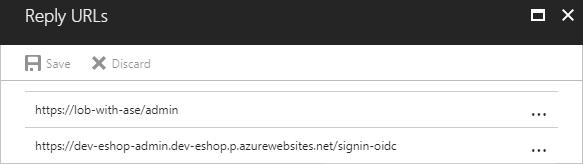
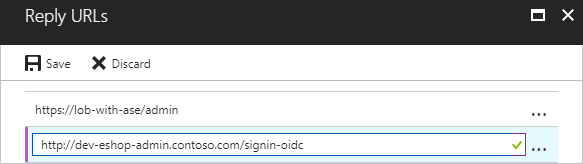
Check in new changes

Changed region(s): [[0.0309, 0.7622, 0.9571, 1.0], [0.1544, 0.3354, 0.2779, 0.4268], [0.0309, 0.3354, 0.1235, 0.4268]]

diff --git a/e-shop-website-with-ilb-ase/README.md b/e-shop-website-with-ilb-ase/README.md
@@ -2,21 +2,31 @@
 
 **Table of content**
 
-[Create App Registrations in Azure Active Directory (AAD)](#create-app-registrations-in-azure-active-directory-aad)
+[Architecture](#architecture)
 
-* [Get Tenant Id](#get-tenant-id)
-* [Create App Registration for the Admin Web App](#create-app-registration-for-the-admin-web-app)
+[Prerequisites](#prerequisites)
 
-[Deploy Azure Components with the ARM Template](#deploy-azure-components-with-the-arm-template)
+[Deploy Azure Resources with ARM Templates](#deploy-azure-resources-with-arm-templates)
 
-* [GitHub Authorize](#github-authorize)
-* [Deploy Azure Components](#deploy-azure-components)
-* [Deployment output](#deployment-output)
+* [Create a new App Service Environment](#create-a-new-app-service-environment)
+* [Create App Registration in Azure Active Directory (AAD)](#create-app-registration-in-azure-active-directory-aad)
+* [Deploy the Other Azure Resources](#deploy-the-other-azure-resources)
+
+[Follow-up Steps](#follow-up-steps)
+
+* [Check Deployment Outputs](#check-deployment-outputs)
+* [Get ASE ILB IP address](#get-ase-ilb-ip-address)
+
+
+* [Add DNS Records](#add-dns-records)
 
 
 * [Add Reply URL to the Admin Web App](#add-reply-url-to-the-admin-web-app)
 
 [Access Deployed Resources](#access-deployed-resources)
+
+* [Web App](#web-app)
+* [Admin App](#admin-app)
 
 ## Architecture
 
@@ -24,9 +34,65 @@
 
 Download the Visio diagram [here](/e-shop-website-with-ilb-ase/architecture.vsdx).
 
-## Create App Registrations in Azure Active Directory (AAD) 
+## Prerequisites
 
-### Get Tenant Id
+To experience this sample, you should prepare two domain names:
+
+1. Internal domain name: used by the App Service Environment. For example `contoso-internal.com`.
+2. External domain name: used to internet access Web Apps. For example `contoso.com`.
+
+And you should have the permissions to configure them. We will add several A records and CNAME records later.
+
+> Note: You may get free domain names on [freenom](https://www.freenom.com).
+
+## Deploy Azure Resources with ARM Templates
+
+### Create a new App Service Environment
+
+It takes about 70 minutes to create a new App Service Environment in Azure. 
+
+1. Click the **Deploy to Azure** Button:
+
+   <a href="https://portal.azure.com/#create/Microsoft.Template/uri/https%3A%2F%2Fraw.githubusercontent.com%2FAzure%2Fazure-quickstart-templates%2Fmaster%2Fe-shop-website-with-ilb-ase%2Fprereqs%2Fprereq.azuredeploy.json" target="_blank">
+     <img src="http://azuredeploy.net/deploybutton.png"/>
+   </a>
+
+2. Fill in the values on the custom deployment page:
+
+   **Basics**:
+
+   - **Subscription**: choose one of your subscriptions
+   - **Resource group**: create a new resource group
+   - **Location**:  select a location
+
+   **Settings**:
+
+   - **Name**: the name of the App Service Environment. 
+
+     > **Note:** 
+     >
+     > * This value is also used to name other Azure resources created by the ARM template. To avoid naming conflicts, please choose a unique name, for example **tyler-eshop-180308**.
+     > * This value is also used as the subdomain name. Please only use lowercase characters, numbers, and dash(-).
+
+   - **Location**: choose the same location as the location of the resource group.
+
+     > **Note:** This parameter was added because of this [issue](https://github.com/Azure/azure-quickstart-templates/issues/2828).
+
+   - **DNS Suffix**:  input the internal domain name, for example `contoso-internal.com` 
+
+   **Terms and conditions**:
+
+   - Check **I agree to the terms and conditions stated above**.
+
+   > **Note**: keeps these values. The will be used to deploy the other resources later.
+
+3. Click **Purchase**.
+
+   > **Note**: During the deployment, you may work on next section.
+
+### Create App Registration in Azure Active Directory (AAD) 
+
+#### Get Tenant Id
 
 Open the AAD in the Azure portal, and copy get the **Directory ID**.
 
@@ -34,7 +100,7 @@ Open the AAD in the Azure portal, and copy get the **Directory ID**.
 
 The **Directory ID** is used to set the value of the **Azure Ad Tenant Id** parameter in the ARM Template.
 
-### Create App Registration for the Admin Web App
+#### Create App Registration for the Admin Web App
 
 Create a new App Registration in AAD:
 
@@ -52,52 +118,9 @@ Create a new App Registration in AAD:
 
 Copy the **Application Id** and save it in a text file. You will need it later to specify the values for the **Azure Ad Client Id** parameter in the ARM Template.
 
-## Deploy Azure Components with the ARM Template
+### Deploy the Other Azure Resources
 
-### GitHub Authorize
-
-1. Generate Token
-
-   - Open [https://github.com/settings/tokens](https://github.com/settings/tokens) in your web browser.
-
-   - Sign into your GitHub account where you forked this repository.
-
-   - Click **Generate Token**.
-
-   - Enter a value in the **Token description** text box.
-
-   - Select the followings (your selections should match the screenshot below):
-
-     - repo (all) -> repo:status, repo_deployment, public_repo
-     - admin:repo_hook -> read:repo_hook
-
-     ![](images/github-new-personal-access-token.png)
-
-   - Click **Generate token**.
-
-   - Copy the token and save it in a text file.
-
-2. Add the GitHub Token to Azure in the Azure Resource Explorer
-
-   - Open [https://resources.azure.com/providers/Microsoft.Web/sourcecontrols/GitHub](https://resources.azure.com/providers/Microsoft.Web/sourcecontrols/GitHub) in your web browser.
-
-   - Log in with your Azure account.
-
-   - Select the correct Azure subscription.
-
-   - Select **Read/Write** mode.
-
-   - Click **Edit**.
-
-   - Paste the token into the **token parameter**.
-
-     ![](images/update-github-token-in-azure-resource-explorer.png)
-
-   - Click **PUT**.
-
-### Deploy Azure Components
-
-1. Fork this repository to your GitHub account.
+After the App Service Environment deployed, follow the steps below to deploy the other Azure resources.
 
 2. Click the **Deploy to Azure** Button:
 
@@ -109,44 +132,37 @@ Copy the **Application Id** and save it in a text file. You will need it later t
      <img src="http://armviz.io/visualizebutton.png"/>
    </a>
 
-3. Fill in the values on the deployment page:
+2. Fill in the values on the deployment page:
 
    **Basics**:
 
-   * **Subscription**: choose one of your subscriptions
-   * **Resource group**: create a new resource group
-   * **Location**:  select a location
+   * **Subscription**: choose the same subscription.
+   * **Resource group**: choose the same resource group.
 
    **Settings**:
 
-   * **Ase Name**: the name of the App Service Environment. 
+   * **Existing ASE Name**: the name of the App Service Environment.
 
-     >**Note:** This value is also used to name other Azure resources created by the ARM template. To avoid naming conflicts, please choose a unique name, for example: **tyler-eshop-180308**.
+   * **Existing ASE Location**: the location of the App Service Environment.
 
-   * **Ase Location**: choose the same location as the location of the resource group.
+   * **Existing ASE DNS Suffix**: the DNS Suffix (the internal domain name) of the App Service Environment. 
 
-     >**Note:** This parameter was added because of this [issue](https://github.com/Azure/azure-quickstart-templates/issues/2828).
+   * **DNS Suffix**: the external domain name. For example `contoso.com`
 
-   * **Sql Server Administrator Login**:  please keep the default value.
+   * **SQL Server Administrator Login**:  please keep the default value.
 
      >**Note:** If you want to change it, please make sure your login name meets the following requirements - It's a SQL Identifier, and not a typical system name (like admin, administrator, sa, root, dbmanager, loginmanager, etc.), or a built-in database user or role (like dbo, guest, public, etc.). Make sure your name doesn't contain whitespaces, unicode characters, or nonalphabetic characters, and that it doesn't begin with numbers or symbols.
 
-   * **Sql Server Administrator Login Password**: please do use a strong password.
+   * **SQL Server Administrator Login Password**: please do use a strong password.
 
      >**Note:**
      >
      > - Your password must be at least 8 characters in length.
      > - Your password must contain characters from three of the following categories – English uppercase letters, English lowercase letters, numbers (0-9), and non-alphanumeric characters (!, $, #, %, etc.)
 
-   * **Azure Ad Tenant Id**/**Client Id**: use the values you got from the previous chapter.
+   * **Azure AD Tenant Id**/**Client Id**: use the values you got from the previous chapter.
 
      > Note: These values are used to authenticate the Admin Web App.
-
-   * **Source Code Repository URL**: use the URL of the repository you just created -`https://github.com/<YourAccount>/azure-quickstart-templates`
-
-   * **Source Code Branch**: master
-
-   * **Source code Manual Integration**: false
 
    **Terms and conditions**:
 
@@ -154,40 +170,61 @@ Copy the **Application Id** and save it in a text file. You will need it later t
 
 4. Click **Purchase**.
 
-   > **Note**: The deployment takes about 2 hours to complete.
+   > **Note**: The deployment takes about 30minutes to complete.
 
-### Deployment output
+## Follow-up Steps
+
+### Check Deployment Outputs
 
 After the deployment finishes, you will see the URLs of the Web App and Admin App in the outputs tab.
 
 ![](images/azure-deployment-outputs.png)
 
+* **Web App URL**: URL used to access the Web App
+* **Admin App URL**: URL used to access the Admin App
+* **Admin App Redirect URL**: Admin App OAuth redirect URL which will be added to Reply URLs of the App Registration later.
+* **App Gateway Public IP FQDN**: Fully qualified domain name of the Application Gateway Public IP Address which will be used as the value of external domain CNAME records.
+
 > **Note**: the deployment window shown above can be re-opened by clicking the **Deployments** tab in the resource group.
 >
 > ![](images/azure-resource-group-deployments.png)
 
+### Get ASE ILB IP address
+
+Open the App Service Environment, then click **IP addresses**.
+
+![](images/ase-ilb-ip-address.png)
+
+Copy the value of **Internal Local Balancer IP address** and save it in a text file. It will be used as the value of internal domain A records.
+
+### Add DNS Records
+
+1. Add the two A records below in the record management of the internal domain:
+
+   | Host  | Type | Value                                    | TTL  |
+   | ----- | ---- | ---------------------------------------- | ---- |
+   | *     | A    | <ASE Internal Local Balancer IP address> | 600  |
+   | *.scm | A    | <ASE Internal Local Balancer IP address> | 600  |
+
+2. Add the three CNAME records below in the record management of the external domain:
+
+   | Host               | Type  | Value                        | TTL  |
+   | ------------------ | ----- | ---------------------------- | ---- |
+   | <ASE Name>-web     | CNAME | <App Gateway Public IP Fqdn> | 600  |
+   | <ASE Name>-content | CNAME | <App Gateway Public IP Fqdn> | 600  |
+   | <ASE Name>-admin   | CNAME | <App Gateway Public IP Fqdn> | 600  |
+
 ### Add Reply URL to the Admin Web App
 
-1. Copy the URL of the Admin Web app, and change the protocol schema from http to http**s**. This creates the base URL.
+Add the **Admin App Redirect URL** you got from the outputs of the deployment to the App Registration and save it.
 
-    ![](images/admin-web-app.png)
-
-    For example: `https://huddle-bot.azurewebsites.net`
-
-2. Append `/signin-oidc` to the base URL, to create the replay URL. 
-
-   For example: `https://dev-eshop-admin.dev-eshop.p.azurewebsites.net/signin-oidc`
-
-3. Add the replay URL to the Bot App Registration and save it.
-
-   ![](images/app-registration-reply-urls.png)
-
+![](images/app-registration-reply-urls.png)
 
 ## Access Deployed Resources
 
 ### Web App
 
-Open the Web App URL you got from the output section in a browser.
+Open the **Web App URL** you got from the outputs section in a browser.
 
 > **Note**:  The sample uses **Azure CDN from Verizon** profile and its propagation usually completes within 90 minutes. You may need to wait for a while then the page will look exactly like below.
 
@@ -195,7 +232,7 @@ Open the Web App URL you got from the output section in a browser.
 
 ### Admin App
 
-Open the Admin App URL you got from the output section in a browser. Then sign in with a work account in the AAD where you registered the AAD application. ![](images/admin-app.png)
+Open the **Admin App URL** you got from the outputs section in a browser. Then sign in with a work account in the AAD where you registered the AAD application. ![](images/admin-app.png)
 
 
 
